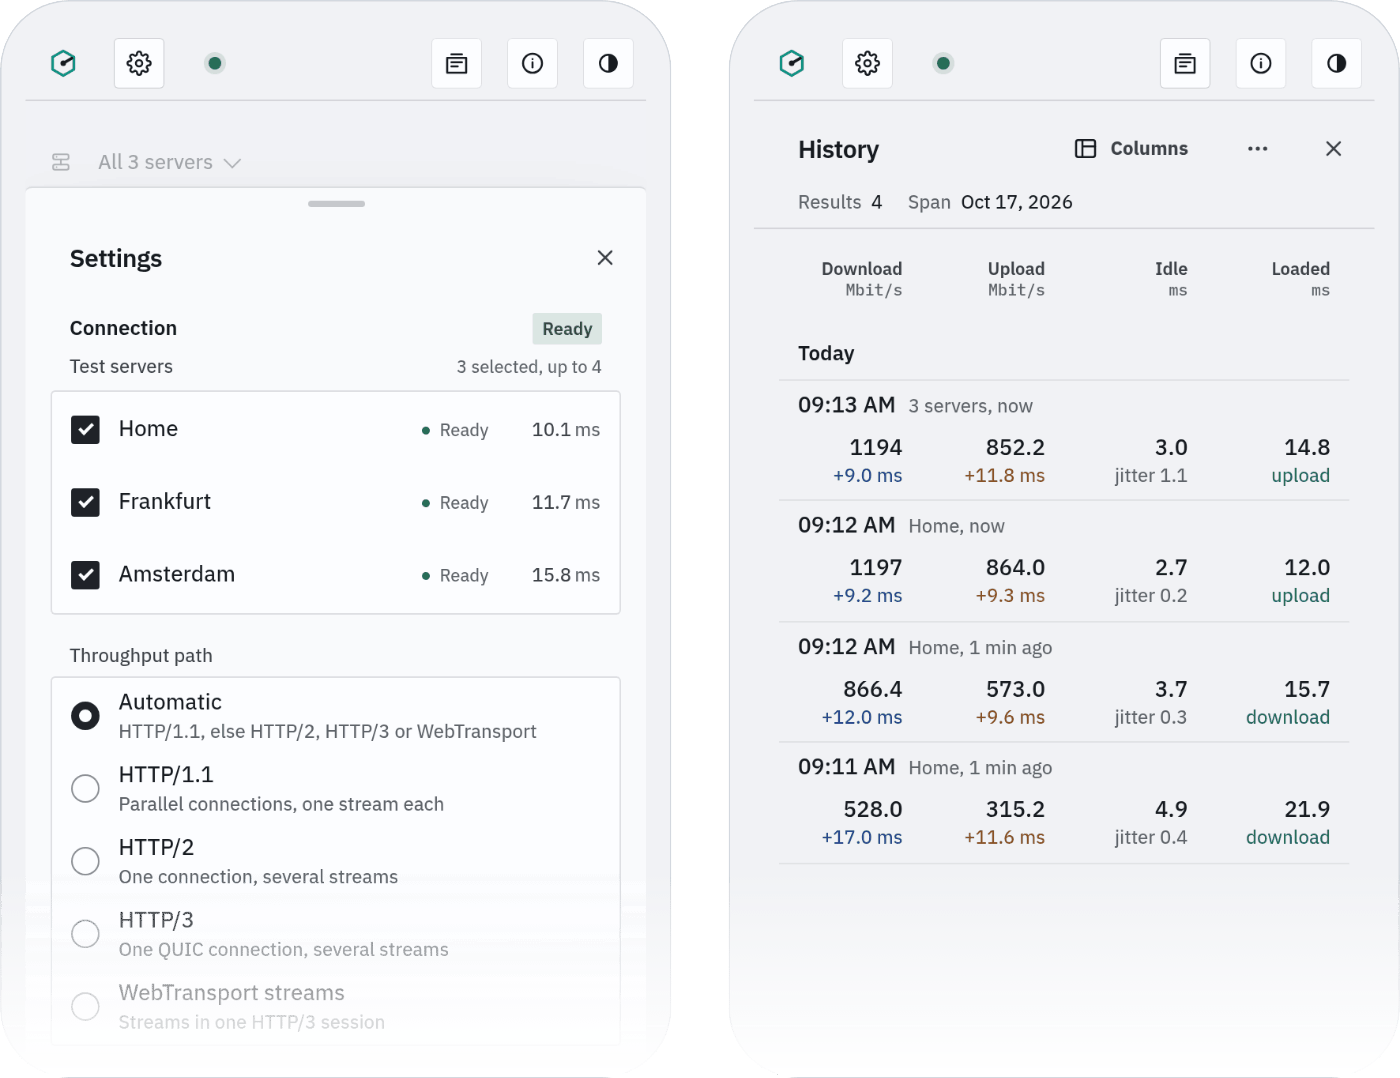
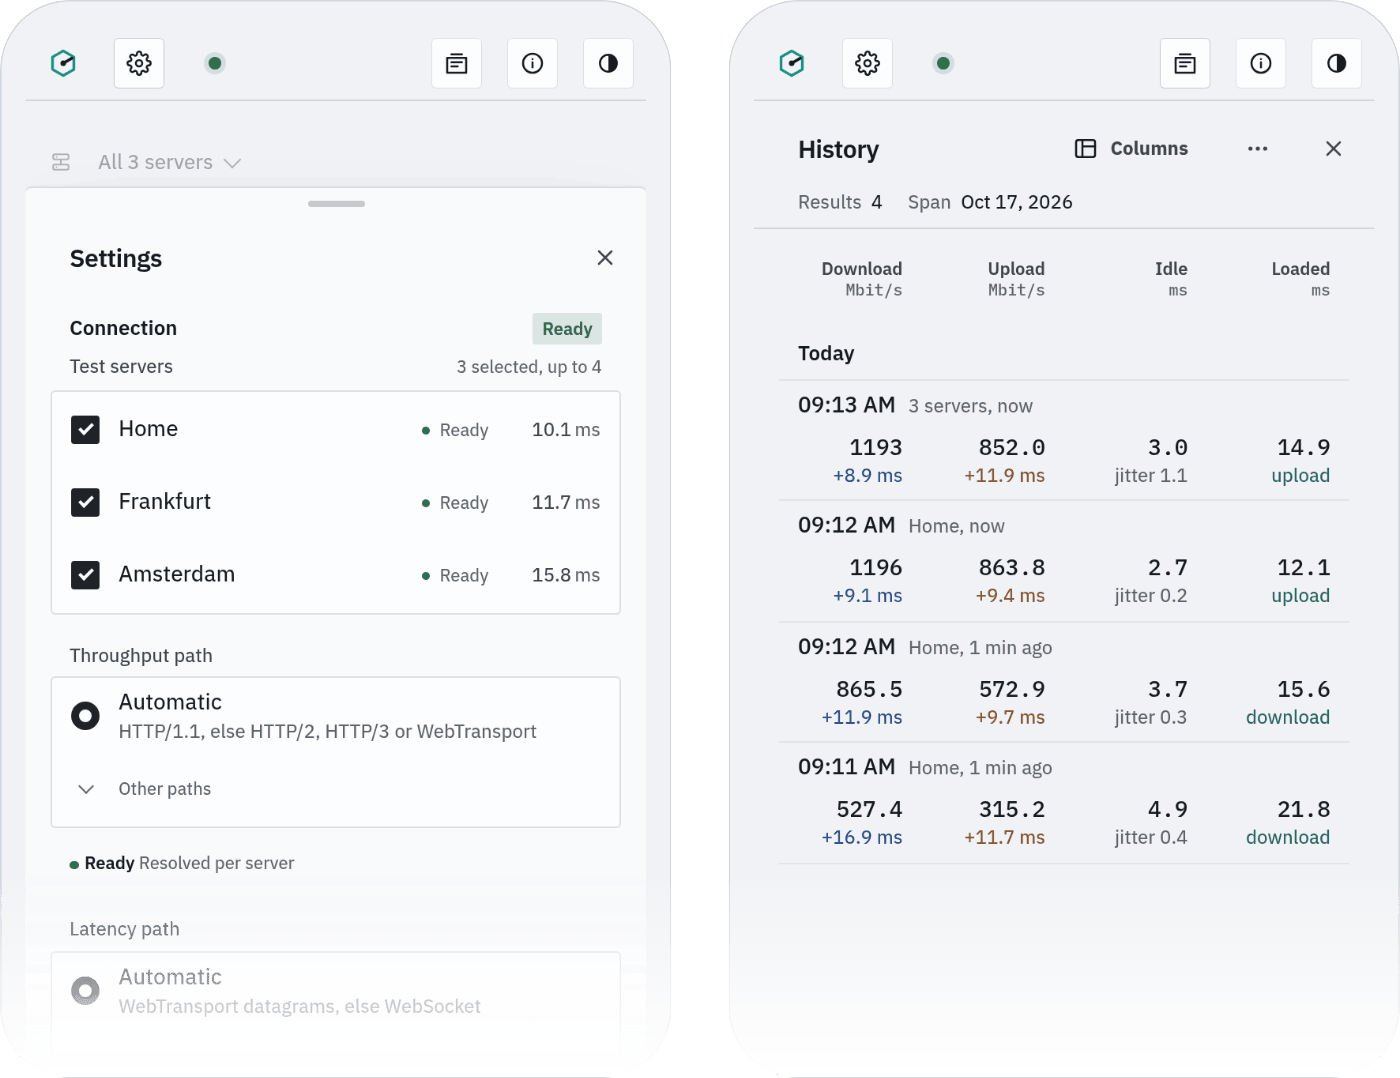
Show 0.14.0 in the README screenshots (#496)

diff --git a/client/scripts/screenshots/fakes.ts b/client/scripts/screenshots/fakes.ts
@@ -1,4 +1,5 @@
 // The screenshot build's network and clock: fixed scenarios and timer-to-timer time, so runs pass alike at once.
+import { EDGE_MS } from "../../src/engine/lanes/bytes";
 import type { ProbeOutcome } from "../../src/protocol/messages";
 import type { Clock } from "../../src/engine/run/clock";
 import type {
@@ -132,6 +133,7 @@ export const openStage: OpenStage = ({ activity, events, now: runMs }) => {
   let stop = () => {};
   let started = 0;
   let sent = 0;
+  let received = 0;
   const receiver = () => ({
     id: activity.stage,
     bytes: Math.round(sent),
@@ -149,13 +151,20 @@ export const openStage: OpenStage = ({ activity, events, now: runMs }) => {
     measure() {
       stop();
       started = now;
+      let edge = 1;
       const stops: (() => void)[] = [];
       if (activity.transfer.length)
         stops.push(
           every(TICK_MS, () => {
             const ms = now - started;
-            if (activity.transfer.includes("down"))
-              events.download(Math.round((rate("down", ms) * TICK_MS) / 1000));
+            if (activity.transfer.includes("down")) {
+              const bytes = Math.round((rate("down", ms) * TICK_MS) / 1000);
+              received += bytes;
+              events.download(bytes);
+              // Download Stability reads the lanes' totals at each edge, which real lanes send with their reports.
+              for (; edge * EDGE_MS <= ms; edge++)
+                events.edge(edge, started + edge * EDGE_MS, received);
+            }
             if (activity.transfer.includes("up")) {
               sent += (rate("up", ms) * TICK_MS) / 1000;
               if (ms % RECEIVER_MS < TICK_MS) events.receiver(receiver());

diff --git a/README.md b/README.md
@@ -13,10 +13,10 @@ A self-hosted speed and latency test, in one container or one binary, for the br
 
 <picture>
   <source media="(prefers-color-scheme: dark)" srcset="docs/assets/hero-dark.png">
-  <img src="docs/assets/hero-light.png" width="100%" alt="The browser app on a desktop after a completed test, 9.40 Gbit/s down and 9.39 Gbit/s up with 0.4 ms idle latency and 1.3 ms added under load, and a phone in front of it showing another test at 1197 Mbit/s down with 2.7 ms latency">
+  <img src="docs/assets/hero-light.png" width="100%" alt="The browser app on a desktop after a completed test, 9.39 Gbit/s down and 9.41 Gbit/s up with 0.4 ms idle latency and 1.3 ms added under load, and a phone in front of it showing another test at 1196 Mbit/s down with 2.7 ms latency">
 </picture>
 
-<sub>Browser app 0.13.5 in Chrome on a desktop and a phone.</sub>
+<sub>Browser app 0.14.0 in Chrome on a desktop and a phone.</sub>
 
 </div>
 
@@ -65,7 +65,7 @@ the [native listeners](docs/DEPLOYMENT.md#native-listeners) or a
   <img src="docs/assets/terminal-light.png" width="100%" alt="The terminal client after a completed test: 2.35 Gbit/s each way, 0.4 ms idle latency, 2.7 ms added under download load and 2.8 ms under upload load">
 </picture>
 
-<sub>Terminal client 0.13.5.</sub>
+<sub>Terminal client 0.14.0.</sub>
 
 </div>
 
@@ -86,7 +86,7 @@ graphite-meter-client --url https://meter.example.net --server frankfurt --serve
   <img src="docs/assets/phones-light.png" width="700" alt="Two phone screens: Settings with three test servers and their chosen paths, and History with four results">
 </picture>
 
-<sub>Browser app 0.13.5 in Chrome on a phone.</sub>
+<sub>Browser app 0.14.0 in Chrome on a phone.</sub>
 
 </div>
 
